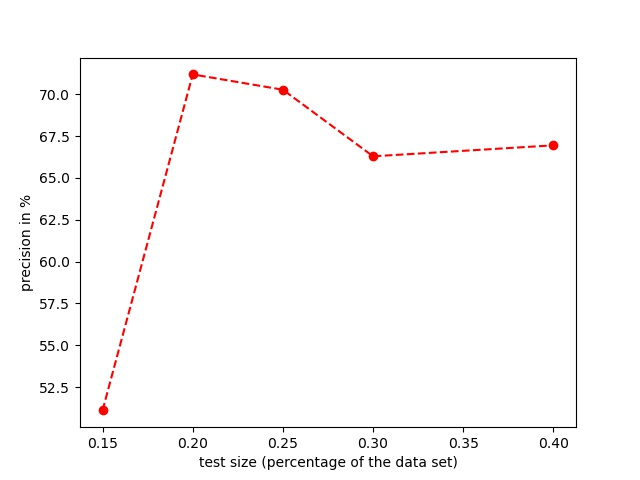
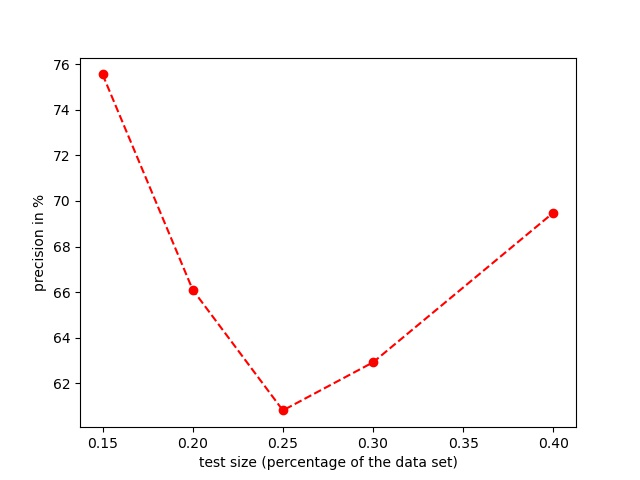
adding SVM

diff --git a/classification/RandomForest.py b/classification/RandomForest.py
@@ -3,8 +3,8 @@ import pandas as pd
 import numpy as np
 from sklearn.model_selection import train_test_split, KFold
 from helperFunctionsAndVariables.globalVariables import \
-    csvProcessedDataReadPath, attributes, classificationField,\
-    generalizationFactor, kFoldNumSplits,weightMap
+    csvProcessedDataReadPath, attributes, classificationField, \
+    generalizationFactor, kFoldNumSplits, weightMap
 from helperFunctionsAndVariables.helperFunctions import create_graph
 
 
@@ -73,7 +73,8 @@ class RFClassifier:
             precisions.append(precision)
         maxIndex = np.argmax(precisions)
         create_graph(sizes, precisions, "test size (percentage of the data set)",
-                     "precision in %", "results\\random forest\\random forest test size experiment.jpg")
+                     "precision in %",
+                     "results\\random forest\\random forest test size experiment.jpg")
         return [sizes[maxIndex], precisions[maxIndex]]
 
     @staticmethod
@@ -104,6 +105,34 @@ class RFClassifier:
             precision = precisionSum / kFoldNumSplits
             precisions.append(precision)
         maxIndex = np.argmax(precisions)
-        create_graph(depths, precisions, " tree maximum depth",
-                     "precision in %", "results\\decision tree\\decision tree max depth experiment.jpg")
+        create_graph(depths, precisions, "tree maximum depth",
+                     "precision in %",
+                     "results\\random forest\\random forest max depth experiment.jpg")
         return [depths[maxIndex], precisions[maxIndex]]
+
+    @staticmethod
+    def experimentOnNEstimators(nEstimatorsArray):
+        kf = KFold(n_splits=kFoldNumSplits, shuffle=True, random_state=15161098)
+        precisions = []
+        df = pd.read_csv(csvProcessedDataReadPath + 'processedGames.csv')
+        X = df[attributes]
+        y = df[classificationField]
+        y = np.ravel(y)
+        for nEstimators in nEstimatorsArray:
+            precisionSum = 0
+            for train_indexes, test_indexes in kf.split(X):
+                classifier = RFClassifier(n_estimators=nEstimators)
+                classifier.X_train = X.iloc[train_indexes]
+                classifier.y_train = y[train_indexes]
+                classifier.X_test = X.iloc[test_indexes]
+                classifier.y_test = y[test_indexes]
+                classifier.train()
+                classifier.predict()
+                precisionSum += classifier.getPrecision()
+            precision = precisionSum / kFoldNumSplits
+            precisions.append(precision)
+        maxIndex = np.argmax(precisions)
+        create_graph(nEstimatorsArray, precisions, "number of estimators",
+                     "precision in %",
+                     "results\\random forest\\random forest estimators number experiment.jpg")
+        return [nEstimatorsArray[maxIndex], precisions[maxIndex]]

diff --git a/classification/SVM.py b/classification/SVM.py
@@ -1,0 +1,71 @@
+import pandas as pd
+import numpy as np
+from sklearn.model_selection import train_test_split, KFold
+from sklearn.svm import SVC
+from helperFunctionsAndVariables.globalVariables import \
+    csvProcessedDataReadPath, attributes, classificationField, \
+    generalizationFactor, kFoldNumSplits, weightMap
+from helperFunctionsAndVariables.helperFunctions import create_graph
+
+
+class SVMClassifier:
+    def __init__(self, kernel='rbf', testSize=None):
+        df = pd.read_csv(csvProcessedDataReadPath + 'processedGames.csv')
+        self.X = df[attributes]
+        self.y = df[classificationField]
+        self.y = np.ravel(self.y)
+        self.X_train, self.X_test, self.y_train, self.y_test = \
+            train_test_split(self.X, self.y, test_size=testSize)
+        self.Classifier = \
+            SVC(kernel=kernel, C=1, class_weight=weightMap,
+                probability=True)
+
+    def train(self):
+        self.Classifier.fit(self.X_train, self.y_train)
+
+    def predict(self):
+        self.y_pred = self.Classifier.predict(self.X_test)
+        self.y_pred = self.y_pred.reshape(-1, 1)
+
+    def getPrecision(self):
+        return (self.Classifier.score(self.X_test, self.y_test)) * 100
+
+    def analyze(self):
+        i = 0
+        wrong = 0
+        for (index, row) in self.y_test.iterrows():
+            predValue = int(self.y_pred[i])
+            realValue = int(row.values)
+            if predValue != realValue:
+                print("wrong line number {}: expected {} got {}".
+                      format(index + 2, realValue, predValue))
+                wrong += 1
+            i += 1
+        print("total wrong classifications : {}/{}".format(wrong, len(self.y_pred)))
+
+    @staticmethod
+    def svmBasicClassification():
+        precisionSum = 0
+        for i in range(0, generalizationFactor):
+            classifier = SVMClassifier()
+            classifier.train()
+            classifier.predict()
+            precisionSum += classifier.getPrecision()
+        return precisionSum / generalizationFactor
+
+    @staticmethod
+    def experimentOnTestSize(sizes):
+        precisions = []
+        for size in sizes:
+            precisionSum = 0
+            for i in range(0, generalizationFactor):
+                classifier = SVMClassifier(testSize=size)
+                classifier.train()
+                classifier.predict()
+                precisionSum += classifier.getPrecision()
+            precision = precisionSum / generalizationFactor
+            precisions.append(precision)
+        maxIndex = np.argmax(precisions)
+        create_graph(sizes, precisions, "test size (percentage of the data set)",
+                     "precision in %", "results\\svm test size experiment.jpg")
+        return [sizes[maxIndex], precisions[maxIndex]]

diff --git a/main.py b/main.py
@@ -2,6 +2,7 @@ from classes.League import processData
 from classification.decisionTree import DTClassifier as dt
 from classification.KNearestNeighbors import KNNClassifier as knn
 from classification.RandomForest import RFClassifier as rf
+from classification.SVM import SVMClassifier
 from scrapping.fetchFunctions import cleanLinks
 
 testSizeArray = [0.15, 0.2, 0.25, 0.3, 0.4]
@@ -75,3 +76,27 @@ if __name__ == '__main__':
     print("        -maximum depth experiment: the best max depth is {}"
           ",and it`s resulted precision is: {:.2f}%"
           .format(int(er8[0]), er8[1]))
+
+    er9 = rf.experimentOnNEstimators([5, 20, 30, 41, 52, 63])
+    print("        -number of estimators experiment: the best number estimators is {}"
+          ",and it`s resulted \n        precision is: {:.2f}%"
+          .format(int(er9[0]), er9[1]))
+    ##################################################################
+    #######################   SVM   #####################################
+    print("SVM: ")
+
+    er10 = SVMClassifier.svmBasicClassification()
+    print("        -basic classification precision: {:.2f}%"
+          .format(er10))
+
+    er11 = SVMClassifier.experimentOnTestSize(testSizeArray)
+    print("        -test size experiment: best test size is {}% of the data "
+          ",and it`s resulted precision is: {:.2f}%"
+          .format(int(er11[0] * 100), er11[1]))
+
+    # er12 = SVMClassifier.([5, 20, 30, 41, 52, 63])
+    # print("        -maximum depth experiment: the best max depth is {}"
+    #       ",and it`s resulted precision is: {:.2f}%"
+    #       .format(int(er12[0]), er12[1]))
+
+

diff --git a/classification/KNearestNeighbors.py b/classification/KNearestNeighbors.py
@@ -105,8 +105,8 @@ class KNNClassifier:
         best_precision = precisionSum / generalizationFactor
         if nNeighborsExperiment[1] > best_precision:
             best_precision = nNeighborsExperiment[1]
-        elif testSizeExperiment[1] > best_precision:
+        if testSizeExperiment[1] > best_precision:
             best_precision = testSizeExperiment[1]
-        elif basic > best_precision:
+        if basic > best_precision:
             best_precision = basic
         return best_precision

diff --git a/classification/decisionTree.py b/classification/decisionTree.py
@@ -189,8 +189,8 @@ class DTClassifier:
         best_precision = precisionSum / generalizationFactor
         if maxDepthExperiment[1] > best_precision:
             best_precision = maxDepthExperiment[1]
-        elif testSizeExperiment[1] > best_precision:
+        if testSizeExperiment[1] > best_precision:
             best_precision = testSizeExperiment[1]
-        elif basic > best_precision:
+        if basic > best_precision:
             best_precision = basic
         return best_precision
